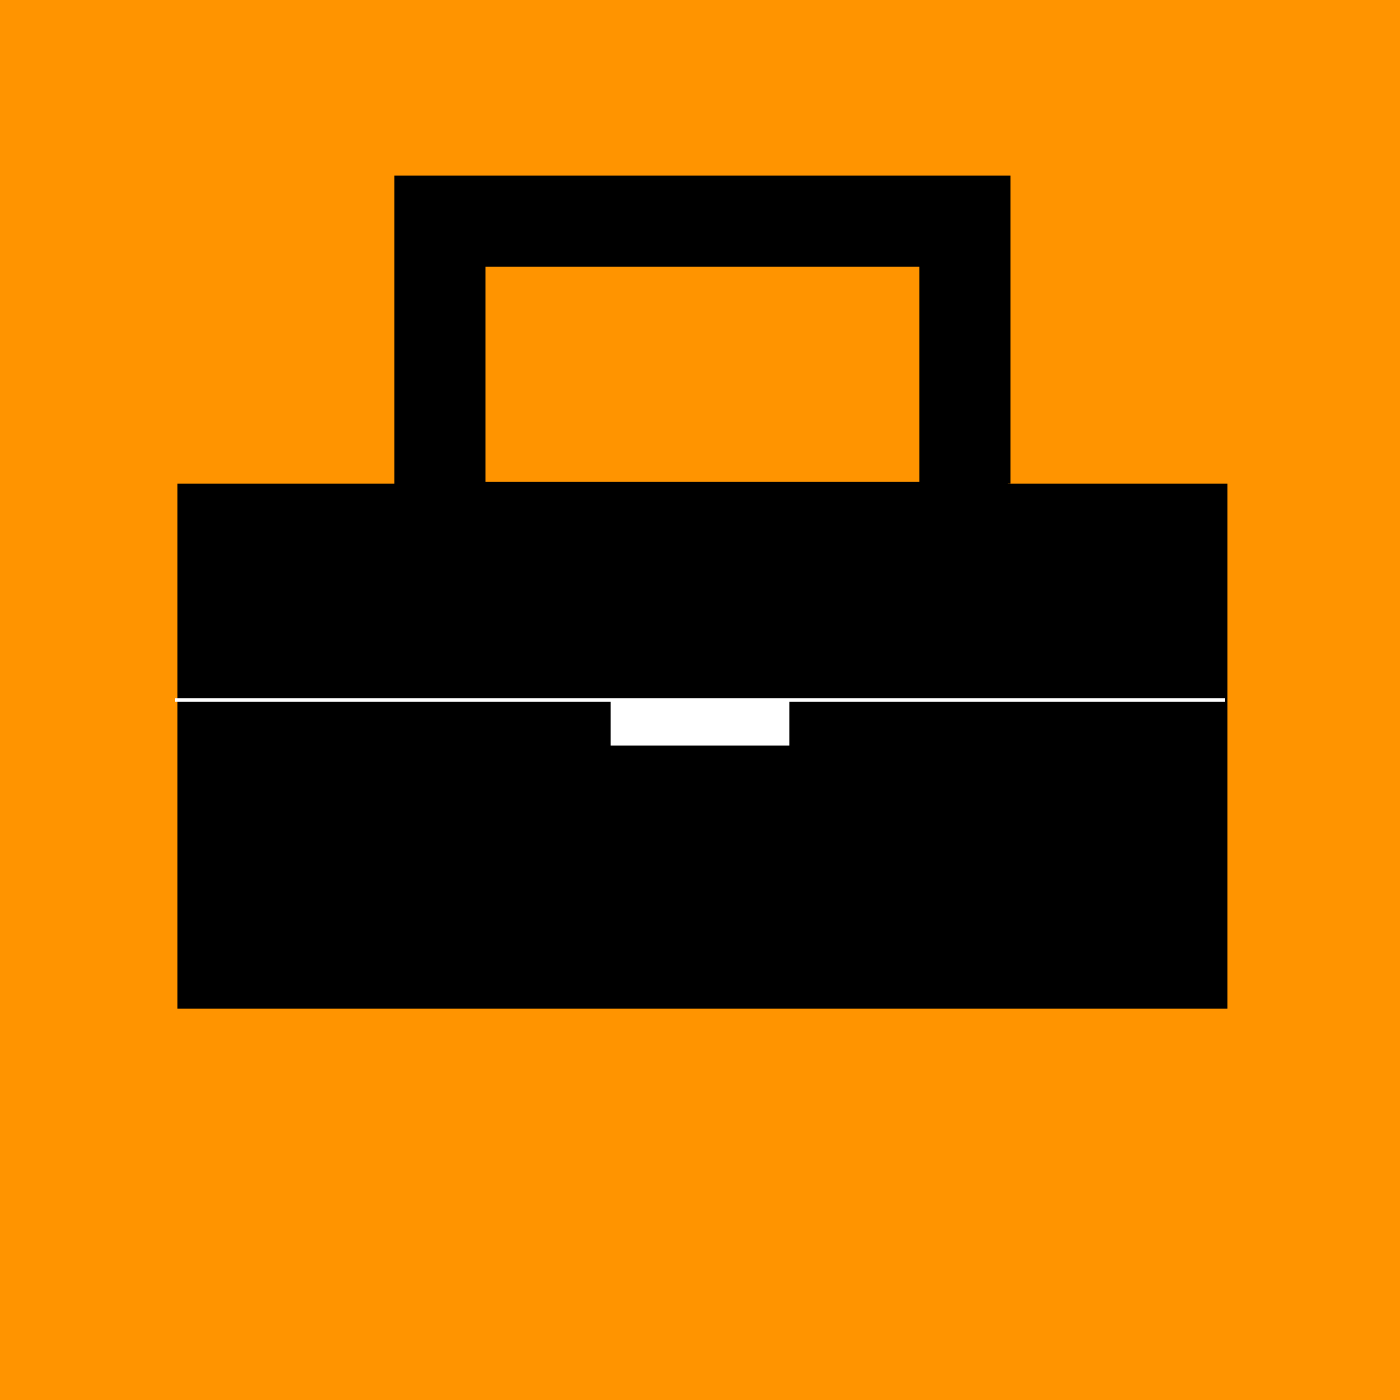
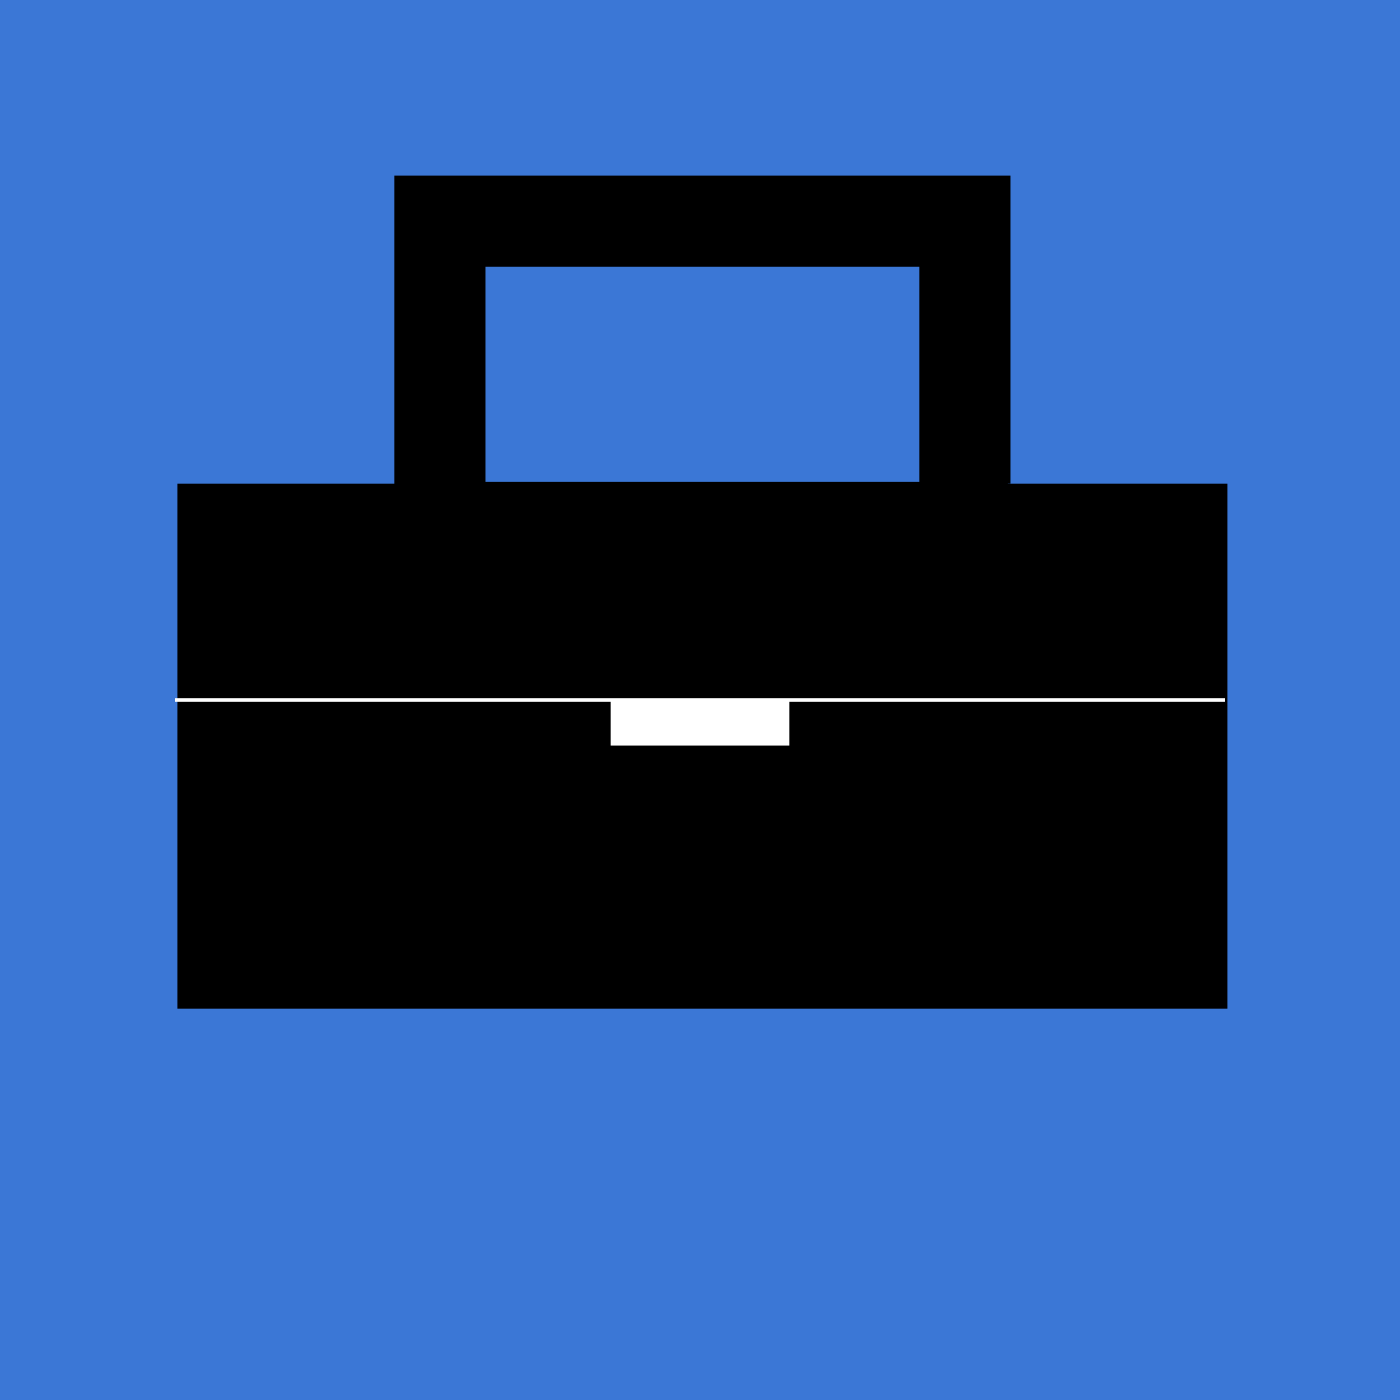
Changed a lot of GUI stuff, broke the scaling capabilities, now we're B L U E

diff --git a/OverallGui.py b/OverallGui.py
@@ -15,17 +15,10 @@ class MainGUI(QMainWindow):
     def __init__(self):
         super().__init__()
         self.title = 'Engineering Toolbox'
-        self.screen_width = QDesktopWidget().availableGeometry().width()
-        if self.screen_width < 3000:
-            self.left = 100 / 2
-            self.top = 100 / 2
-            self.width = 900 / 2
-            self.height = 750 / 2
-        else:
-            self.left = 100
-            self.top = 100
-            self.width = 900
-            self.height = 750
+        self.left = 100
+        self.top = 100
+        self.width = 900
+        self.height = 750
 
         self.initUI()
         self.stacked_layout = QStackedLayout()
@@ -51,85 +44,67 @@ class MainGUI(QMainWindow):
         p = self.palette()
         p.setColor(self.backgroundRole(), QColor('white'))
         self.setPalette(p)
-        if self.screen_width < 3000:
-            self.setStyleSheet("""
-                QPushButton[menuButton = "true"]{
-                    border: 1px solid #ff9400;
-                    border-radius: 10px;
-                    background-color: #ff9400;
-                    font-family: "Helvetica";
-                    font-size: 18px;
-                    min-height: 40px;
-                }
-                
-                QPushButton[menuButton = "false"] {
-                    border: 1px solid #ff9400;
-                    border-radius: 8px;
-                    background-color: #ff9400;
-                    font-family: "Helvetica";
-                    font-size: 18px;          
-                    min-height: 30px; 
-                }
-                
-                QLabel {   
-                    font-family: "Helvetica";
-                    font-size: 14px;    
-                    color: white;        
-                }
-                
-                QWidget {
-                    padding: 5px;
-                }
-                
-                QLineEdit {
-                    font-size: 14px;
-                    font-family: "Helvetica";
-                    min-height: 18px;
-                    max-width: 340px;
-                }   
-                
-                QComboBox {
-                    max-width: 340px;
-                }
-                                        """)
-        else:
-            self.setStyleSheet("""
-                QPushButton[menuButton = "true"]{
-                    border: 1px solid #ff9400;
-                    border-radius: 10px;
-                    background-color: #ff9400;
-                    min-width: 50px;
-                    min-height: 100px;
-                    font-family: "Helvetica";
-                    font-size: 48px;
-                }
 
-                QPushButton[menuButton = "false"] {
-                    border: 1px solid #ff9400;
-                    border-radius: 8px;
-                    background-color: #ff9400;
-                    min-width: 50px;
-                    min-height: 80px;
-                    font-family: "Helvetica";
-                    font-size: 36px;           
-                }
+        self.setStyleSheet("""
+            QPushButton[menuButton = "true"]{
+                border: none;
+                border-radius: 10px;
+                background-color: #3b77d6;
+                font-family: "Helvetica";
+                font-size: 34px;
+                color: white;
+                padding: 10px;
+                min-height: 60px;
+                align: center;
+            }
 
+            QPushButton[menuButton = "false"] {
+                border: none;
+                border-radius: 8px;
+                background-color: #3b77d6;
+                font-family: "Helvetica";
+                font-size: 28px;
+                color: white;
+                padding: 8px;      
+                min-width: 180px;
+                min-height: 180px;
+                     
+            }
+            
+            QPushButton[mainMenuButton = "true"]{
+                border: none;
+                border-radius: 10px;
+                background-color: #3b77d6;
+                font-family: "Helvetica";
+                font-size: 34px;
+                color: white;
+                padding: 10px;
+                min-height: 100px;
+            }
+            
+            QPushButton:hover {
+                background-color: #2f5faa;
+            }
+            
+            QPushButton:pressed {
+                background-color: #244882;
+            }
 
-                QLabel {   
-                    font-family: "Helvetica";
-                    font-size: 36px;    
-                    color: white;        
-                }
+            QLabel {   
+                font-family: "Helvetica";
+                font-size: 28px;    
+                color: black;        
+            }
 
-                QWidget {
-                    padding: 20px;
-                }
+            QWidget {
+                padding: 10px;
+            }
 
-                QLineEdit {
-                    font-size: 32px;
-                    font-family: "Helvetica";
-                }   
-                                        """)
+            QLineEdit {
+                font-size: 28px;
+                font-family: "Helvetica";
+            }   
+                                    """)
 
         self.show()
 
@@ -165,17 +140,17 @@ class MainGUI(QMainWindow):
     def create_main_menu_layout(self):
         """Creates main menu"""
         self.main_menu_stack_position = 0
+
         self.menu_math_btn = QPushButton('Math', self)
-        self.menu_math_btn.setProperty("menuButton", True)
+        self.menu_math_btn.setProperty("mainMenuButton", True)
         self.menu_phys_btn = QPushButton('Physics', self)
-        self.menu_phys_btn.setProperty("menuButton", True)
+        self.menu_phys_btn.setProperty("mainMenuButton", True)
         self.menu_chem_btn = QPushButton('Chemistry', self)
-        self.menu_chem_btn.setProperty("menuButton", True)
+        self.menu_chem_btn.setProperty("mainMenuButton", True)
         self.menu_fav_btn = QPushButton('Favorites', self)
-        self.menu_fav_btn.setProperty("menuButton", True)
+        self.menu_fav_btn.setProperty("mainMenuButton", True)
 
         self.initial_layout = QVBoxLayout()
-        self.initial_layout.setStretch(300, 750)
         self.initial_layout.addWidget(self.menu_math_btn)
         self.initial_layout.addWidget(self.menu_phys_btn)
         self.initial_layout.addWidget(self.menu_chem_btn)
@@ -187,6 +162,8 @@ class MainGUI(QMainWindow):
         self.menu_fav_btn.clicked.connect(self.MainMenuButtonClickHandler)
 
         self.main_menu_widget = QWidget()
+        # TODO: FIX THE FUCKING GUI SO IT DOESN"T LOOK LIKE SHIT
+
         self.main_menu_widget.setLayout(self.initial_layout)
         self.show()
 
@@ -219,7 +196,7 @@ class MainGUI(QMainWindow):
         self.widget_btn_power = QPushButton('Power', self)
         self.widget_btn_power.clicked.connect(self.MathMenuButtonClickHandler)
         self.widget_btn_power.setProperty("menuButton", False)
-        self.widget_btn_integral = QPushButton('Integral', self)
+        self.widget_btn_integral = QPushButton('Definite\nIntegral', self)
         self.widget_btn_integral.clicked.connect(self.MathMenuButtonClickHandler)
         self.widget_btn_integral.setProperty("menuButton", False)
         self.widget_btn_derivative = QPushButton('Derivative', self)
@@ -276,7 +253,7 @@ class MainGUI(QMainWindow):
         input_two = QLineEdit()
         self.add_output = QLineEdit()
         calc_btn = QPushButton('Calculate', self)
-        calc_btn.setProperty("menuButton", False)
+        calc_btn.setProperty("menuButton", True)
         calc_btn.clicked.connect(lambda: self.add_widget_calculate(input_one, input_two))
         back_btn = QPushButton('Back', self)
         back_btn.setProperty("menuButton", True)
@@ -339,7 +316,7 @@ class MainGUI(QMainWindow):
         input_two = QLineEdit()
         self.power_output = QLineEdit()
         calc_btn = QPushButton('Calculate', self)
-        calc_btn.setProperty("menuButton", False)
+        calc_btn.setProperty("menuButton", True)
         calc_btn.clicked.connect(lambda: self.power_widget_calculate(input_one, input_two))
         result = QLabel('Result')
         fav_btn = QPushButton('Add To Favorites')
@@ -409,7 +386,7 @@ class MainGUI(QMainWindow):
         self.integral_output = QLineEdit()
         calc_btn = QPushButton('Calculate')
         calc_btn.clicked.connect(lambda: self.integral_widget_calculate(func_input, upper_input, lower_input))
-        calc_btn.setProperty("menuButton", False)
+        calc_btn.setProperty("menuButton", True)
 
         # setup gridlayout
         grid = QGridLayout()
@@ -471,19 +448,29 @@ class MainGUI(QMainWindow):
         back_btn.clicked.connect(lambda: self.backButton(self.main_menu_stack_position))
         back_btn.setProperty("menuButton", True)
         label = QLabel('Physics')
-        self.widget_btn_resband = QPushButton('Resistor Bands')
+        self.widget_btn_resband = QPushButton('Resistor \nBands')
         self.widget_btn_resband.setProperty("menuButton", False)
         self.widget_btn_resband.clicked.connect(self.PhysMenuButtonClickHandler)
-        self.widget_btn_dense = QPushButton('Material Densities')
+        self.widget_btn_dense = QPushButton('Material \nDensities')
         self.widget_btn_dense.setProperty("menuButton", False)
         self.widget_btn_dense.clicked.connect(self.PhysMenuButtonClickHandler)
+        self.widget_btn_fall = QPushButton('Falling')
+        self.widget_btn_fall.setProperty("menuButton", False)
+        # TODO: Implement falling widget
+        self.widget_btn_NAME = QPushButton('Placeholder')
+        self.widget_btn_NAME.setProperty("menuButton", False)
 
         # create layout
-        self.phys_menu_layout = QGridLayout()
-        self.phys_menu_layout.addWidget(label, 0, 0, 1, 1)
-        self.phys_menu_layout.addWidget(self.widget_btn_resband, 1, 0, 1, 1)
-        self.phys_menu_layout.addWidget(self.widget_btn_dense, 1, 1, 1, 1)
-        self.phys_menu_layout.addWidget(back_btn, 2, 0, 1, 2)
+        self.phys_menu_layout = QVBoxLayout()
+        self.phys_menu_layout.addWidget(label)
+        self.phys_widget_layout = QGridLayout()
+        self.phys_widget_layout.addWidget(self.widget_btn_resband, 0, 0, 1, 1)
+        self.phys_widget_layout.addWidget(self.widget_btn_dense, 0, 1, 1, 1)
+        self.phys_widget_layout.addWidget(self.widget_btn_fall, 0, 2, 1, 1)
+        self.phys_widget_layout.addWidget(self.widget_btn_NAME, 0, 3, 1, 1)
+
+        self.phys_menu_layout.addLayout(self.phys_widget_layout)
+        self.phys_menu_layout.addWidget(back_btn)
 
         # create stack object
         self.phys_menu = QWidget()
@@ -523,7 +510,7 @@ class MainGUI(QMainWindow):
         band_tol.addItems(['Brown  ±1%', 'Red   ±2%', 'Green ±0.5%', 'Blue ±0.25%', 'Violet ±0.1%', 'Gray ±0.05%',
                            'Gold ±1%', 'Silver ±10%'])
         calc_btn = QPushButton('Calculate')
-        calc_btn.setProperty("menuButton", False)
+        calc_btn.setProperty("menuButton", True)
         calc_btn.clicked.connect(lambda: self.resband_calculate(band_one, band_two, band_mult, band_tol))
         self.resband_output = QLineEdit()
 
@@ -602,7 +589,7 @@ class MainGUI(QMainWindow):
         self.dense_out_metr = QLineEdit()
         self.dense_out_imp = QLineEdit()
         calc_btn = QPushButton('Calculate')
-        calc_btn.setProperty("menuButton", False)
+        calc_btn.setProperty("menuButton", True)
         calc_btn.clicked.connect(lambda: self.dense_calculate(str(mat.currentText())))
 
         # setup gridlayout
@@ -698,7 +685,7 @@ class MainGUI(QMainWindow):
         label_input = QLabel('Formula')
         form_input = QLineEdit()
         calc_btn = QPushButton('Calculate')
-        calc_btn.setProperty("menuButton", False)
+        calc_btn.setProperty("menuButton", True)
         calc_btn.clicked.connect(lambda: self.molar_mass_calculate(form_input.text()))
         label_output = QLabel('Molar Mass')
         self.molar_mass_out = QLineEdit()
@@ -790,17 +777,10 @@ class MainGUI(QMainWindow):
 if __name__ == '__main__':
     app = QApplication(sys.argv)
 
-    screen_width = QDesktopWidget().availableGeometry().width()
     left = 100
     top = 100
     width = 900
     height = 750
-
-    if screen_width < 3000:
-        left /= 2
-        top /= 2
-        width /= 2
-        height /= 2
 
     splash_pix = QPixmap('splash_screen.png')
     scaled = splash_pix.scaled(width, height, Qt.IgnoreAspectRatio, Qt.FastTransformation)
